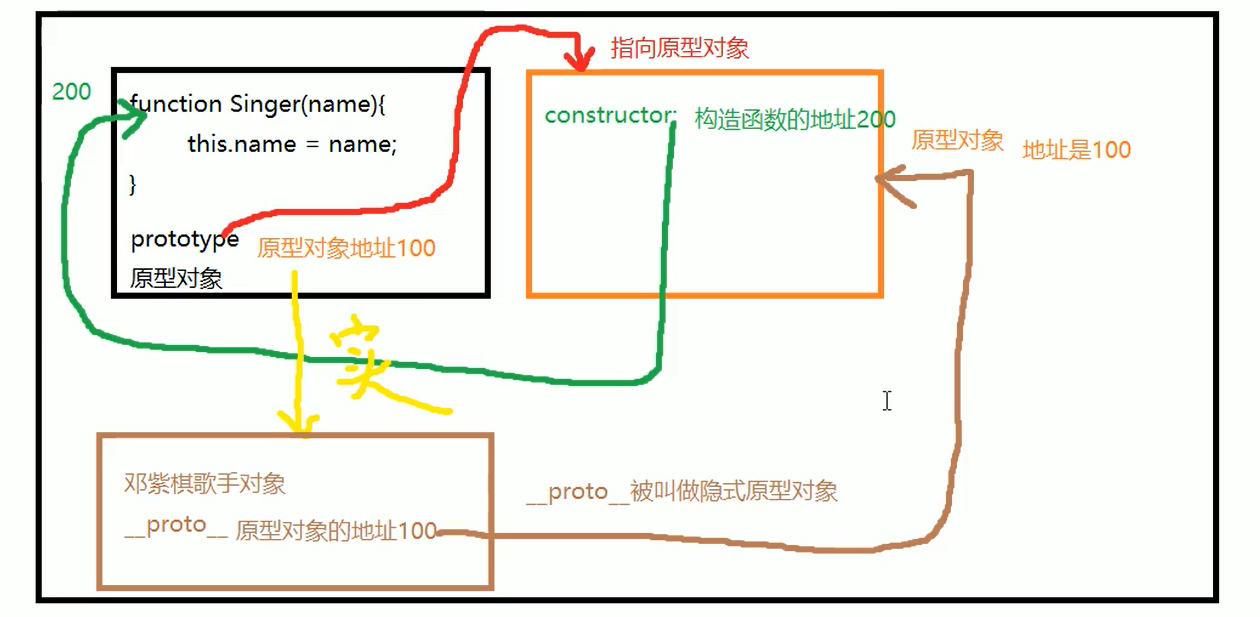
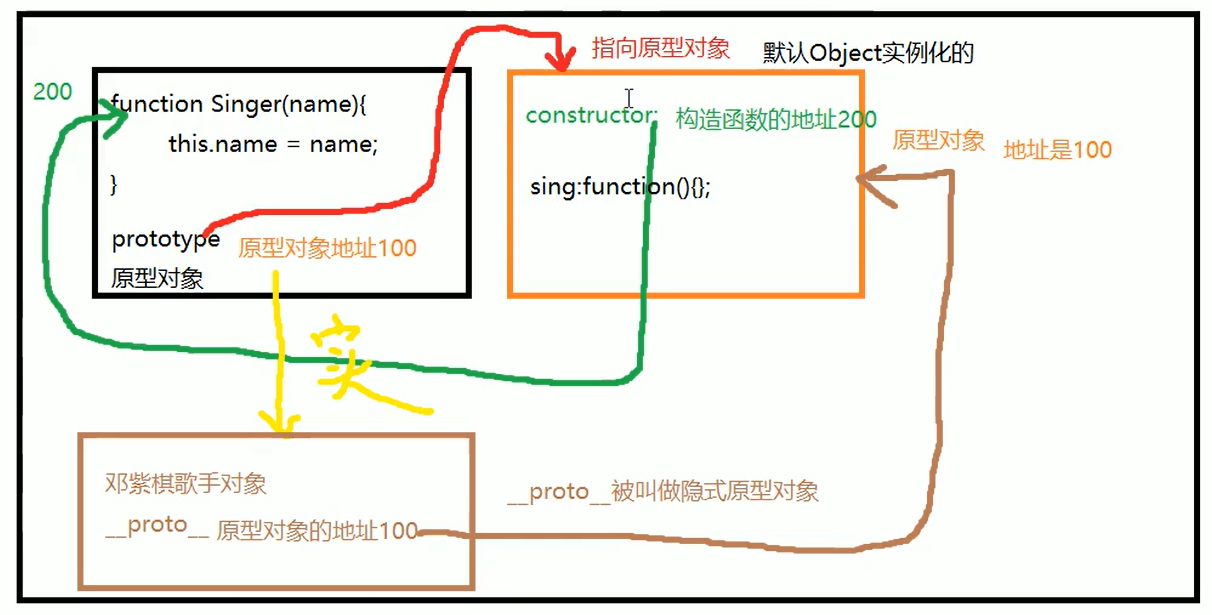
updated

Changed region(s): [[0.0, 0.0, 1.0, 0.9886]]

diff --git a/js系列笔记/刘渊-2019/7. 第七部分-对象/07. 原型对象和原型链.html b/js系列笔记/刘渊-2019/7. 第七部分-对象/07. 原型对象和原型链.html
@@ -10,23 +10,29 @@
 
 <body>
   <!-- 
-      通过原型来添加方法：解决数据共享，节省内存空间 --- 小杨
+      通过原型来添加方法：解决数据共享，节省内存空间 --- 小杨 + 渊哥
 
       任何的函数对象在定义的时候，都会伴随着一个原型对象出现，原型对象默认是Object的实例对象  --- 渊哥
+
+      原型链：
+        - 对象在调用属性或者方法的时候，首先会从自身对象空间查找，如果找到就直接用了。
+        - 如果没有找到，然后去自己的原型对象空间去找(自己的构造函数的原型对象)，如果找到就用。
+        - 如果没有找到，然后去自己的原型对象的原型对象空间当中去找(自己的构造函数的原型对象的构造函数的原型对象当中去找)，如果找到就用，如果找不到继续向上查找，直到找到Object的原型对象位置，找到就用，找不到的话，如果是属性就返回undefined，如果是方法就返回报错(xxx is not a function)。
    -->
 
-   <!-- 初级原型图 -->
-   <img src="./初级原型图.png" width="800" alt="">
+  <!-- 初级原型图 -->
+  <img src="./初级原型图.png" width="800" alt="">
 
   <script>
     // 实例化(也叫创建)两个歌手
-    function Singer(name, gender, age) {
+    /* function Singer(name, gender, age) {
       this.name = name;
       this.gender = gender;
       this.age = age;
-      this.sing = function () {
-        console.log('实力派唱将: ' + this.name);
-      }
+    }
+
+    Singer.prototype.sing = function () {
+      console.log('实力派唱将: ' + this.name);
     }
 
     var singer1 = new Singer('邓紫棋', 'female', 28);
@@ -36,18 +42,20 @@
 
     var singer2 = new Singer('腾格尔', 'male', 50);
     console.log(singer2);
-    singer2.sing();
+    singer2.sing(); */
 
 
 
-    /* // 创建两个猫咪
-    function BlueCat(name, age, gender) {
+    // 创建两个猫咪
+    /* function BlueCat(name, age, gender) {
       this.name = name;
       this.age = age;
       this.gender = gender;
-      this.run = function () {
-        console.log('跑得很快');
-      }
+    }
+
+    // BlueCat.prototype.run = function () {
+    Object.prototype.run = function () {
+      console.log(this.name + ' 跑得很快');
     }
 
     var cat1 = new BlueCat('Tom', 2, 'male');
@@ -58,7 +66,17 @@
     var cat2 = new BlueCat('Jerry', 3, 'female');
     console.log(cat2);
     console.log('cat2["age"]', cat2['age']);
-    cat2.run(); */
+    cat2.run();
+    console.log('cat2.s', cat2.s);
+    console.log('cat2.s', cat2.a()); */
+
+
+
+    var arr = [1, 2, 3, 4, 5];
+    console.log(arr);
+    arr.push(6); // push方法 在原型身上
+    console.log(arr);
+    // arr.pushhhhh(); // 没有这个方法就会报错
   </script>
 </body>
 
